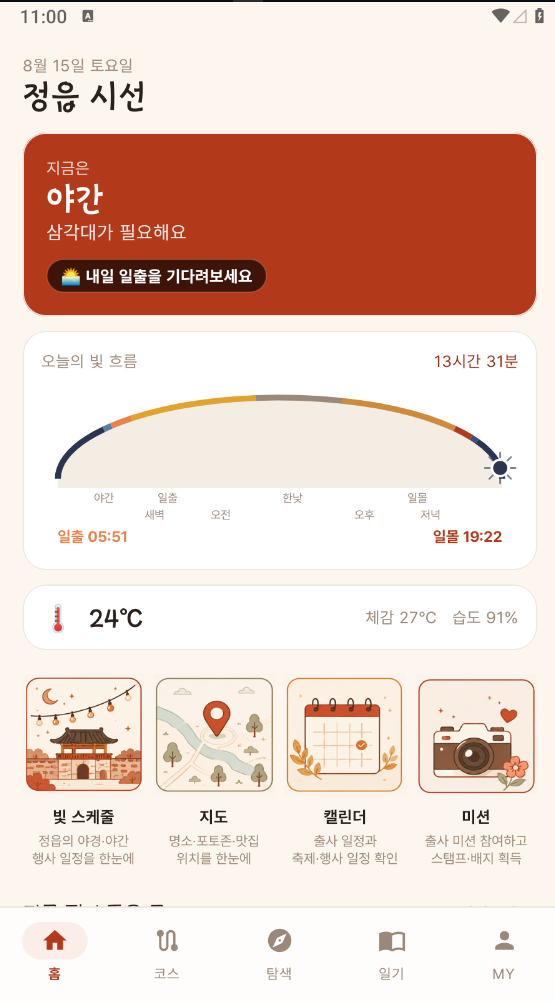
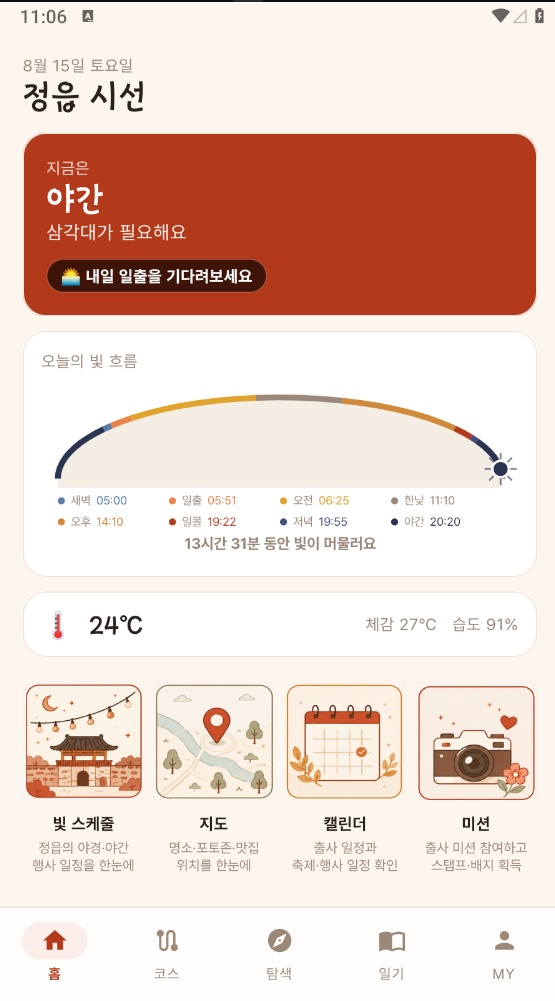
fix(home): 빛 구간 이름·시각을 호 아래 격자로 정리
이름을 각자 자기 띠의 곡선 아래에 정확히 놓아 봤습니다. 위치는 맞았지만
보기에 어수선했습니다. 골든아워·블루아워가 30분짜리라 왼쪽 끝에 이름
넷이 몰려 어긋난 높이로 쌓였고, 자정 쪽 "야간"은 카드 밖으로 잘렸습니다.

4열 2행 격자로 옮겼습니다. 날짜가 바뀌어 구간 길이가 달라져도 자리가
흔들리지 않고, 어떤 화면 폭에서도 잘리지 않습니다. 위치로 잇던 이름과
띠는 색 점으로 잇습니다.

구간마다 시각을 함께 적습니다. 대부분 그 구간이 시작하는 시각인데,
알고 싶은 것이 "몇 시부터 이 빛인가" 라서입니다. 골든아워만 다릅니다.
일출 골든아워는 일출 30분 전에 시작해 시작 시각이 05:21 이 되는데,
"일출"이라는 낱말에서 기대하는 숫자는 해가 뜨는 05:51 입니다. 두 값이
어긋나 보이면 그림 전체를 못 믿게 되므로 이 둘만 실제 일출·일몰
시각을 적습니다.

야간은 자정에 잘려 조각이 둘인데 저녁 뒤에 오는 쪽(20:20)을 씁니다.
00:00 은 "오늘 밤 몇 시부터 야간인가" 에 답하지 못합니다.

낮 길이는 카드 제목 옆의 "13시간 31분" 에서 원래 문장으로 되돌려
그림 아래 가운데에 뒀습니다.

diff --git a/app/src/main/java/com/youngs/picview/ui/home/SunArcView.kt b/app/src/main/java/com/youngs/picview/ui/home/SunArcView.kt
@@ -15,7 +15,6 @@ import com.youngs.picview.domain.light.LightPhase
 import com.youngs.picview.domain.light.SunTimes
 import java.time.LocalTime
 import kotlin.math.PI
-import kotlin.math.abs
 import kotlin.math.cos
 import kotlin.math.sin
 
@@ -87,15 +86,15 @@ class SunArcView @JvmOverloads constructor(
 
     override fun onMeasure(widthMeasureSpec: Int, heightMeasureSpec: Int) {
         val width = MeasureSpec.getSize(widthMeasureSpec)
-        // 호가 솟는 높이 + 이름 두 줄 + 시각 한 줄.
-        val height = (width * ARC_RISE_RATIO + dp(76f)).toInt()
+        // 호가 솟는 높이 + 격자 두 줄 + 낮 길이 한 줄.
+        val height = (width * ARC_RISE_RATIO + dp(82f)).toInt()
         setMeasuredDimension(width, resolveSize(height, heightMeasureSpec))
     }
 
     override fun onDraw(canvas: Canvas) {
         val w = width.toFloat()
         val padH = dp(14f)              // 끝 구간 색이 잘리지 않을 만큼만
-        val baseY = height - dp(62f)    // 호의 양 끝이 놓이는 선
+        val baseY = height - dp(68f)    // 호의 양 끝이 놓이는 선
         val halfWidth = (w - padH * 2) / 2f
         val rise = w * ARC_RISE_RATIO
         val cx = w / 2f
@@ -106,9 +105,9 @@ class SunArcView @JvmOverloads constructor(
 
         drawFill(canvas, baseY, cx, halfWidth)
         drawArc(canvas)
-        drawPhaseLabels(canvas, baseY, cx, halfWidth)
+        drawPhaseLegend(canvas, baseY, w, padH)
         drawSun(canvas, cx, baseY, halfWidth, rise)
-        drawTimes(canvas, baseY, padH, w)
+        drawDaylight(canvas, baseY, cx)
     }
 
     /** 호 아래를 옅게 채웁니다. 선만 있으면 허공에 떠 보입니다. */
@@ -154,31 +153,60 @@ class SunArcView @JvmOverloads constructor(
     }
 
     /**
-     * 구간 이름을 호 아래 두 줄에 번갈아 답니다.
+     * 구간 이름과 시각을 호 바로 아래 **4열 2행 격자**로 답니다.
      *
-     * 한 줄에 몰면 골든아워·블루아워가 30분짜리라 이름이 서로 포개집니다.
-     * 이웃한 구간을 위아래로 갈라 두면 가로로 붙어 있어도 안 겹칩니다.
-     * 그래도 같은 줄끼리 가까워지는 경우가 남아서 간격을 한 번 더 봅니다.
+     * 처음에는 각 이름을 자기 띠의 곡선 아래에 정확히 놓았습니다. 위치는
+     * 맞았지만 보기에 어수선했습니다. 골든아워·블루아워가 30분짜리라 왼쪽
+     * 끝에 이름 넷이 몰려 서로 어긋난 높이로 쌓였고, 자정 쪽 이름은 카드
+     * 밖으로 잘렸습니다.
+     *
+     * 격자는 날짜가 바뀌어 구간 길이가 달라져도 자리가 흔들리지 않습니다.
+     * 위치로 잇던 이름과 띠는 **색 점**으로 잇습니다. 점 색이 곧 위 띠의
+     * 색이라 눈이 따라갑니다.
+     *
+     * 순서는 시간순입니다. 새벽에서 시작해 야간으로 끝나야 하루를 읽는
+     * 방향과 격자를 읽는 방향(왼쪽→오른쪽, 위→아래)이 같아집니다.
      */
-    private fun drawPhaseLabels(canvas: Canvas, baseY: Float, cx: Float, halfWidth: Float) {
-        val rowY = floatArrayOf(baseY + dp(20f), baseY + dp(34f))
-        val lastX = floatArrayOf(-Float.MAX_VALUE, -Float.MAX_VALUE)
+    private fun drawPhaseLegend(canvas: Canvas, baseY: Float, w: Float, padH: Float) {
+        val starts = phaseStarts()
+        val cellWidth = (w - padH * 2) / COLUMNS
 
-        labelPaint.color = textTertiary
-        var row = 0
+        labelPaint.textAlign = Paint.Align.LEFT
 
-        for ((from, until, phase) in segments()) {
-            // 자정에 잘린 야간 조각 중 짧은 쪽에는 이름을 달지 않습니다.
-            // 달면 "야간"이 한 그림에 두 번 나옵니다.
-            if (phase == LightPhase.NIGHT && until - from < longestNightSpan()) continue
+        LEGEND_ORDER.forEachIndexed { index, phase ->
+            val left = padH + (index % COLUMNS) * cellWidth
+            val y = baseY + dp(22f) + (index / COLUMNS) * dp(18f)
 
-            val x = cx - halfWidth + (from + until) / 2f / MINUTES_PER_DAY * halfWidth * 2f
-            if (abs(x - lastX[row]) < dp(38f)) continue
+            sunPaint.color = ContextCompat.getColor(context, phase.colorRes)
+            canvas.drawCircle(left + dp(3f), y - dp(3f), dp(3f), sunPaint)
 
-            canvas.drawText(phase.shortLabel, x, rowY[row], labelPaint)
-            lastX[row] = x
-            row = 1 - row
+            labelPaint.color = textTertiary
+            canvas.drawText(phase.shortLabel, left + dp(11f), y, labelPaint)
+
+            // 시각은 그 구간 색으로. 이름·시각·띠가 한 덩어리로 읽힙니다.
+            labelPaint.color = ContextCompat.getColor(context, phase.colorRes)
+            canvas.drawText(
+                timeTextOf(starts[phase] ?: 0, phase),
+                left + dp(11f) + labelPaint.measureText(phase.shortLabel) + dp(5f),
+                y, labelPaint
+            )
         }
+    }
+
+    /**
+     * 구간별 시작 분.
+     *
+     * 야간만 자정에 잘려 조각이 둘입니다. 저녁 뒤에 오는 조각을 씁니다.
+     * 00:00 을 적으면 "오늘 밤 몇 시부터 야간인가"라는 물음에 답하지 못합니다.
+     */
+    private fun phaseStarts(): Map<LightPhase, Int> {
+        val segments = segments()
+        return LEGEND_ORDER.mapNotNull { phase ->
+            val candidates = segments.filter { it.third == phase }
+            val chosen = if (phase == LightPhase.NIGHT) candidates.maxByOrNull { it.first }
+            else candidates.minByOrNull { it.first }
+            chosen?.let { phase to it.first }
+        }.toMap()
     }
 
     /**
@@ -210,22 +238,35 @@ class SunArcView @JvmOverloads constructor(
         canvas.drawCircle(x, y, dp(6f), sunPaint)
     }
 
-    /** 맨 아래 줄에 일출·일몰 시각. */
-    private fun drawTimes(canvas: Canvas, baseY: Float, padH: Float, w: Float) {
-        val y = baseY + dp(54f)
+    /**
+     * 구간 이름 아래에 붙는 시각.
+     *
+     * 대부분은 **그 구간이 시작하는 시각**입니다. 알고 싶은 것이 "몇 시부터
+     * 이 빛인가" 라서입니다.
+     *
+     * 골든아워만 다릅니다. 일출 골든아워는 일출 30분 전에 시작하므로 시작
+     * 시각을 적으면 05:21 이 되는데, 사람들이 "일출"이라는 낱말에서 기대하는
+     * 숫자는 해가 뜨는 05:51 입니다. 두 값이 어긋나 보이면 그림 전체를
+     * 못 믿게 되므로 이 두 구간만 실제 일출·일몰 시각을 적습니다.
+     */
+    private fun timeTextOf(startMinute: Int, phase: LightPhase): String = when (phase) {
+        LightPhase.SUNRISE -> sunTimes.sunrise?.formatted()
+        LightPhase.SUNSET -> sunTimes.sunset?.formatted()
+        else -> null
+    } ?: "%02d:%02d".format(startMinute / 60 % 24, startMinute % 60)
 
-        timePaint.color = ContextCompat.getColor(context, R.color.light_sunrise)
-        timePaint.textAlign = Paint.Align.LEFT
-        canvas.drawText(
-            context.getString(R.string.sun_arc_sunrise, sunTimes.sunrise?.formatted() ?: "—"),
-            padH, y, timePaint
-        )
+    /** 맨 아래 줄에 낮 길이 한 문장. */
+    private fun drawDaylight(canvas: Canvas, baseY: Float, cx: Float) {
+        val sunrise = sunTimes.sunrise ?: return
+        val sunset = sunTimes.sunset ?: return
+        val minutes = (sunset.toSecondOfDay() - sunrise.toSecondOfDay()) / 60
+        if (minutes <= 0) return
 
-        timePaint.color = ContextCompat.getColor(context, R.color.light_sunset)
-        timePaint.textAlign = Paint.Align.RIGHT
+        timePaint.color = textTertiary
+        timePaint.textAlign = Paint.Align.CENTER
         canvas.drawText(
-            context.getString(R.string.sun_arc_sunset, sunTimes.sunset?.formatted() ?: "—"),
-            w - padH, y, timePaint
+            context.getString(R.string.sun_arc_daylight, minutes / 60, minutes % 60),
+            cx, baseY + dp(60f), timePaint
         )
     }
 
@@ -262,5 +303,14 @@ class SunArcView @JvmOverloads constructor(
 
         /** 호가 솟는 높이 ÷ 카드 폭. 반원(0.5)보다 훨씬 납작해야 카드가 안 커집니다. */
         private const val ARC_RISE_RATIO = 0.17f
+
+        /** 격자 열 수. 여덟 구간이 4×2 로 딱 떨어집니다. */
+        private const val COLUMNS = 4
+
+        /** 격자에 놓는 순서. 하루가 흐르는 순서 그대로입니다. */
+        private val LEGEND_ORDER = listOf(
+            LightPhase.BLUE_DAWN, LightPhase.SUNRISE, LightPhase.MORNING, LightPhase.MIDDAY,
+            LightPhase.AFTERNOON, LightPhase.SUNSET, LightPhase.BLUE_DUSK, LightPhase.NIGHT
+        )
     }
 }

diff --git a/app/src/main/java/com/youngs/picview/ui/home/HomeFragment.kt b/app/src/main/java/com/youngs/picview/ui/home/HomeFragment.kt
@@ -83,23 +83,7 @@ class HomeFragment : Fragment(R.layout.fragment_home), MainActivity.TabRoot {
             else -> getString(R.string.home_golden_tomorrow)
         }
 
-        renderDaylightLength(sun)
         renderWeather()
-    }
-
-    /** 낮 길이. 일출·일몰이 다 있을 때만 보입니다. */
-    private fun renderDaylightLength(sun: SunTimes) {
-        val sunrise = sun.sunrise
-        val sunset = sun.sunset
-        val minutes = if (sunrise != null && sunset != null) {
-            (sunset.toSecondOfDay() - sunrise.toSecondOfDay()) / 60
-        } else 0
-
-        binding.tvDaylightLength.isVisible = minutes > 0
-        if (minutes > 0) {
-            binding.tvDaylightLength.text =
-                getString(R.string.sun_arc_daylight, minutes / 60, minutes % 60)
-        }
     }
 
     /**
